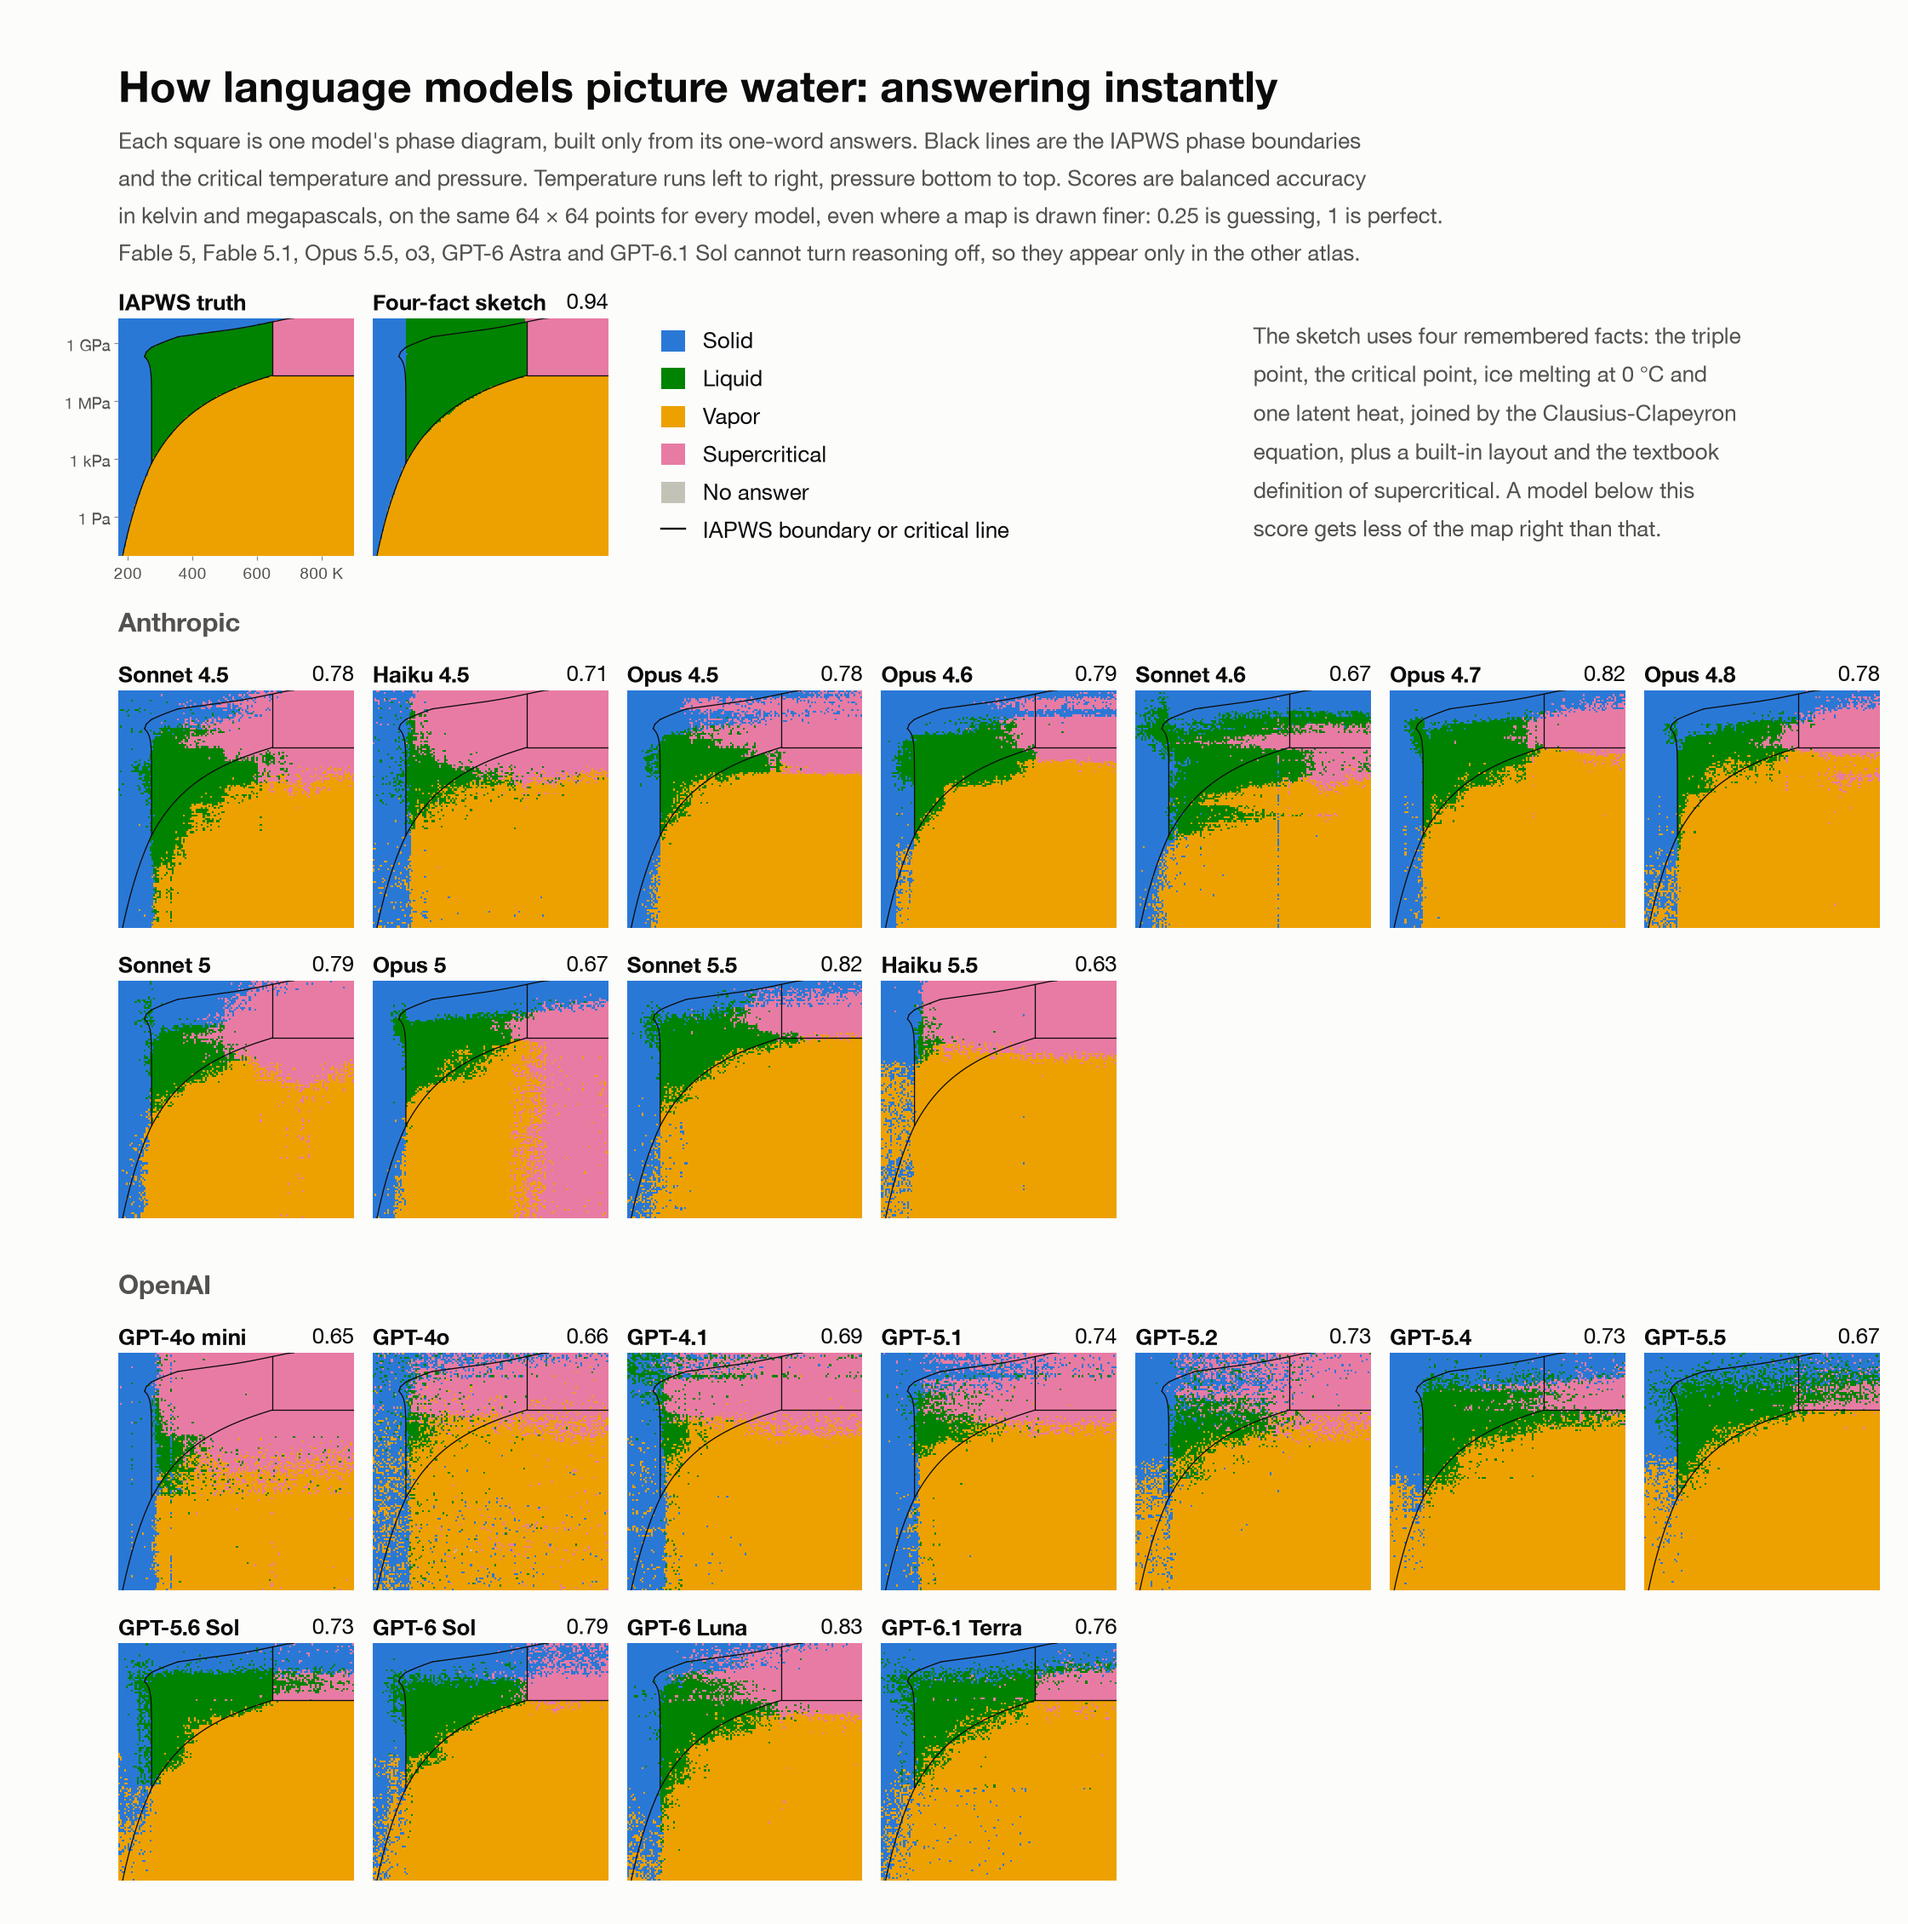
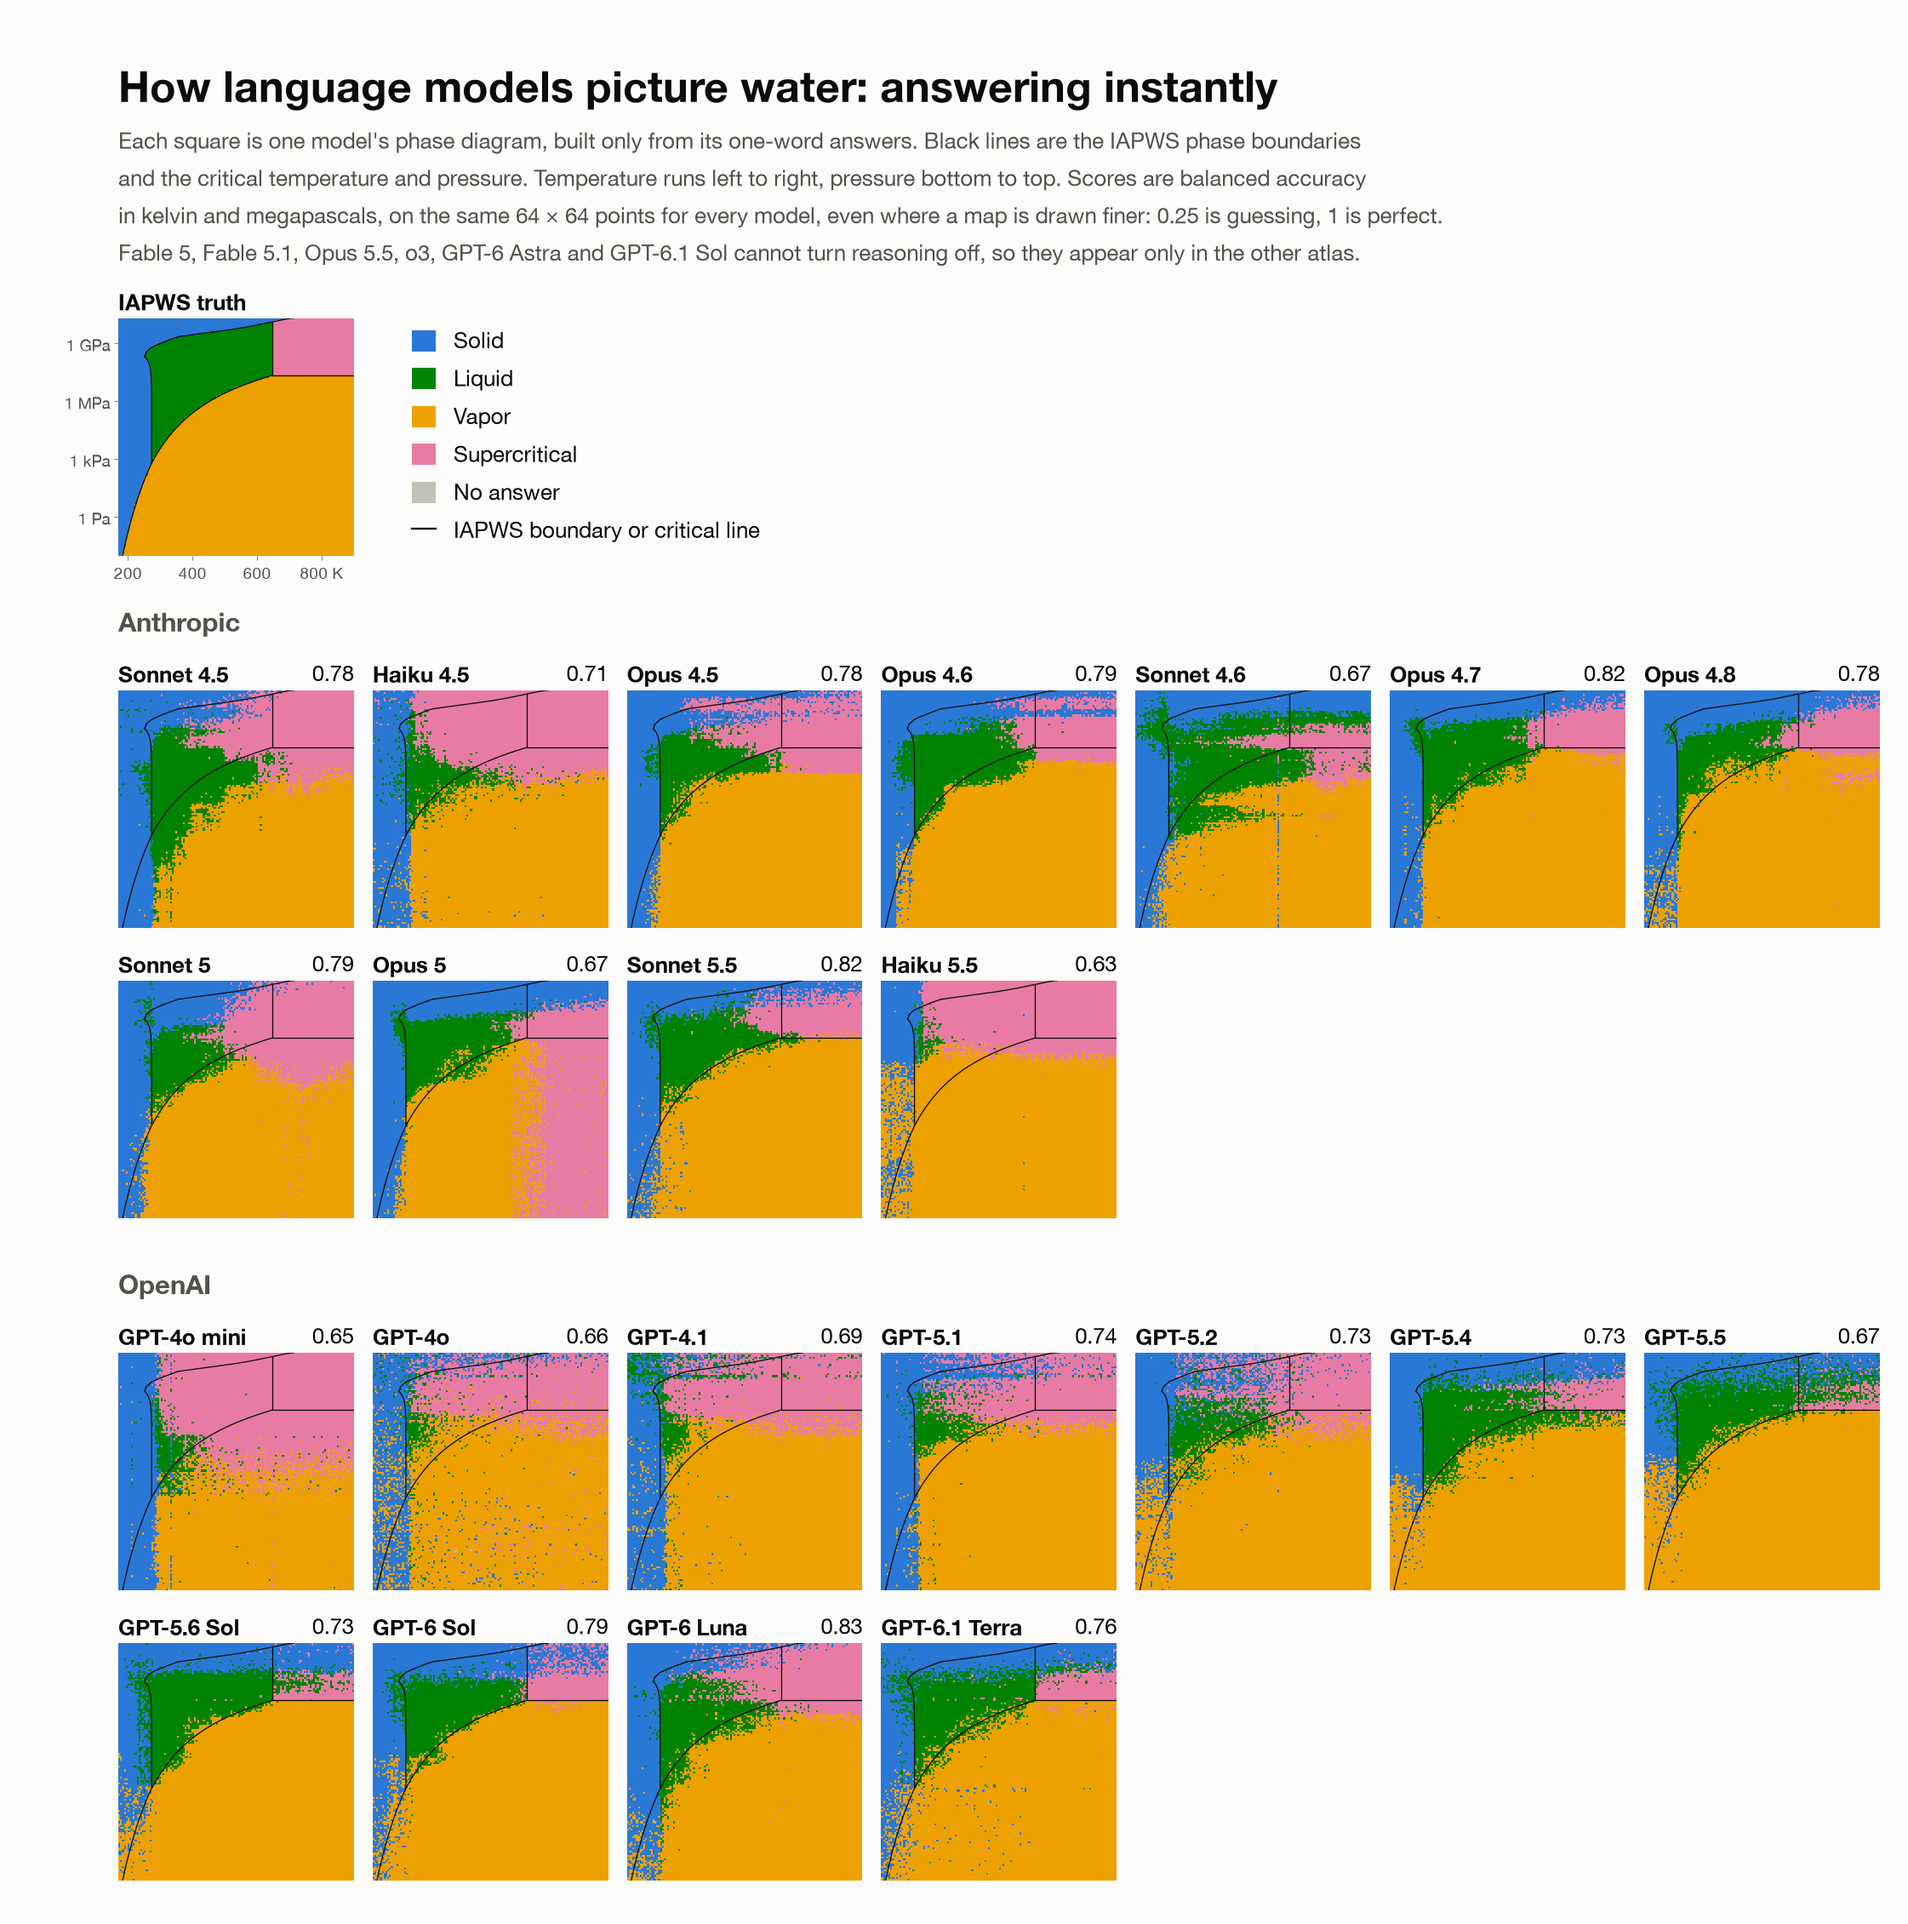
Drop the four-fact sketch from the figures

Changed region(s): [[0.1873, 0.1549, 0.4371, 0.3097], [0.6557, 0.1549, 0.9054, 0.2788]]

diff --git a/src/phase_diagram/figures.py b/src/phase_diagram/figures.py
@@ -134,7 +134,6 @@ def atlas(condition: str, scores: pd.DataFrame, references: pd.DataFrame) -> Non
     level = grade.shared_level(scores)
     chosen = scores[(scores["condition"] == condition) & (scores["level"] == level)]
     ba = chosen.set_index("model")["balanced_accuracy"].to_dict()
-    sketch_ba = sketch_score(references, level)
     answers = {m.id: load_answers(m) for m in MODELS}
     groups = {}
     for provider in ("anthropic", "openai"):
@@ -166,28 +165,13 @@ def atlas(condition: str, scores: pd.DataFrame, references: pd.DataFrame) -> Non
     label_axes(ax)
     ax.set_title("IAPWS truth", loc="left", fontsize=11, fontweight="bold", pad=4)
 
-    ax = fig.add_subplot(outer[0, 1])
-    sketch = points.assign(pred=grade.sketch_phase(points["T_K"], points["p_Pa"]).astype(np.int8))
-    draw_map(ax, grade.to_image(sketch, 0))
-    ax.set_title("Four-fact sketch", loc="left", fontsize=11, fontweight="bold", pad=4)
-    ax.text(1.0, 1.02, f"{sketch_ba:.2f}", transform=ax.transAxes, ha="right", va="bottom", fontsize=11)
-
-    legend_ax = fig.add_subplot(outer[0, 2:])
+    legend_ax = fig.add_subplot(outer[0, 1:])
     legend_ax.axis("off")
     handles = [Patch(facecolor=color, label=name) for name, color in PHASE_LEGEND]
     handles.append(Patch(facecolor=NO_ANSWER, label="No answer"))
     handles.append(Line2D([0], [0], color=INK, lw=1, label="IAPWS boundary or critical line"))
     legend_ax.legend(handles=handles, loc="upper left", frameon=False, fontsize=11, handlelength=1.1, handleheight=1.1,
                      borderaxespad=0, labelspacing=0.55, bbox_to_anchor=(0.02, 1.0))
-    note = (
-        "The sketch uses four remembered facts: the triple\n"
-        "point, the critical point, ice melting at 0 °C and\n"
-        "one latent heat, joined by the Clausius-Clapeyron\n"
-        "equation, plus a built-in layout and the textbook\n"
-        "definition of supercritical. A model below this\n"
-        "score gets less of the map right than that."
-    )
-    legend_ax.text(0.5, 1.0, note, transform=legend_ax.transAxes, va="top", fontsize=11, color=SECONDARY, linespacing=1.5)
 
     row = 1
     for provider in ("anthropic", "openai"):
@@ -207,36 +191,6 @@ def atlas(condition: str, scores: pd.DataFrame, references: pd.DataFrame) -> Non
     FIGURES.mkdir(parents=True, exist_ok=True)
     fig.savefig(FIGURES / f"atlas_{condition}.png", dpi=170)
     plt.close(fig)
-
-
-def preview_card() -> None:
-    """The image a shared link to the results page unfurls into: the instant atlas, unlabeled."""
-    points = load_grid()
-    images = [
-        grade.to_image(points.assign(pred=points["truth"].astype(np.int8)), 0),
-        grade.to_image(points.assign(pred=grade.sketch_phase(points["T_K"], points["p_Pa"]).astype(np.int8)), 0),
-    ]
-    for model in sorted(MODELS, key=lambda m: m.released):
-        image = model_image(model, points, load_answers(model), "instant")
-        if image is not None:
-            images.append(image)
-
-    columns = 8
-    rows = int(np.ceil(len(images) / columns))
-    fig = plt.figure(figsize=(12, 6.3))
-    tiles = fig.add_gridspec(rows, columns, left=0.042, right=0.958, top=0.685, bottom=0.05, hspace=0.05, wspace=0.05)
-    fig.text(0.042, 0.93, "What does a language model think water does?", fontsize=31, fontweight="bold", va="top")
-    fig.text(0.042, 0.81, f"The IAPWS reference, a four-fact sketch, then {len(images) - 2} models answering instantly, in release order.",
-             fontsize=15, color=SECONDARY, va="top")
-    for k, image in enumerate(images):
-        draw_map(fig.add_subplot(tiles[k // columns, k % columns]), image, line_width=0.45)
-    fig.savefig(ROOT / "results" / "site" / "preview.png", dpi=200)
-    plt.close(fig)
-
-
-def sketch_score(references: pd.DataFrame, level: int) -> float:
-    chosen = references[(references["reference"] == "Four-fact sketch") & (references["level"] == level)]
-    return float(chosen["balanced_accuracy"].iloc[0])
 
 
 def save(fig, name: str) -> None:
@@ -259,7 +213,6 @@ def reasoning_effect(scores: pd.DataFrame, references: pd.DataFrame) -> None:
     level = grade.shared_level(scores)
     chosen = scores[scores["level"] == level]
     table = chosen.pivot(index="model", columns="condition", values="balanced_accuracy")
-    sketch = sketch_score(references, level)
     fig, axes = plt.subplots(1, 2, figsize=(11, 6.2), sharex=True)
     for ax, provider in zip(axes, ("anthropic", "openai")):
         models = sorted((m for m in MODELS if m.provider == provider and m.id in table.index), key=lambda m: m.released)
@@ -271,8 +224,6 @@ def reasoning_effect(scores: pd.DataFrame, references: pd.DataFrame) -> None:
             ax.scatter(reasoned, y, s=62, color=PROVIDER_COLOR[provider], edgecolor=SURFACE, linewidth=1.2, zorder=3)
         ax.set_yticks(range(len(models)), [named(m) for m in models], fontsize=10.5, color=INK)
         ax.set_ylim(len(models) - 0.4, -0.9)
-        ax.axvline(sketch, color=SECONDARY, lw=1)
-        ax.text(sketch - 0.006, -0.72, f"Four-fact sketch {sketch:.2f}", ha="right", va="center", fontsize=9, color=SECONDARY)
         ax.set_title(PROVIDER_NAME[provider], loc="left", fontsize=12, fontweight="bold", pad=8)
         ax.set_xlim(0.5, 1.01)
         ax.set_xlabel("Balanced accuracy")
@@ -333,9 +284,6 @@ def generations(scores: pd.DataFrame, references: pd.DataFrame) -> None:
                 else:
                     alone.append((FAMILY_NAME[family], dates.iloc[-1], group[metric].iloc[-1]))
             if metric == "balanced_accuracy":
-                sketch = sketch_score(references, level)
-                ax.axhline(sketch, color=SECONDARY, lw=1)
-                ax.text(pd.Timestamp("2024-07-01"), sketch + 0.008, f"Four-fact sketch {sketch:.2f}", fontsize=9, color=SECONDARY)
                 ax.set_title(CONDITION_TITLE[condition], loc="left", fontsize=12, fontweight="bold", pad=8)
             if limits:
                 ax.set_ylim(*limits)

diff --git a/scripts/make_figures.py b/scripts/make_figures.py
@@ -19,7 +19,6 @@ def main() -> None:
     framings = pd.read_csv(results / "framings.csv")
     for condition in ("instant", "reasoned"):
         figures.atlas(condition, scores, references)
-    figures.preview_card()
     figures.reasoning_effect(scores, references)
     figures.generations(scores, references)
     figures.boundary_fan(scores)
